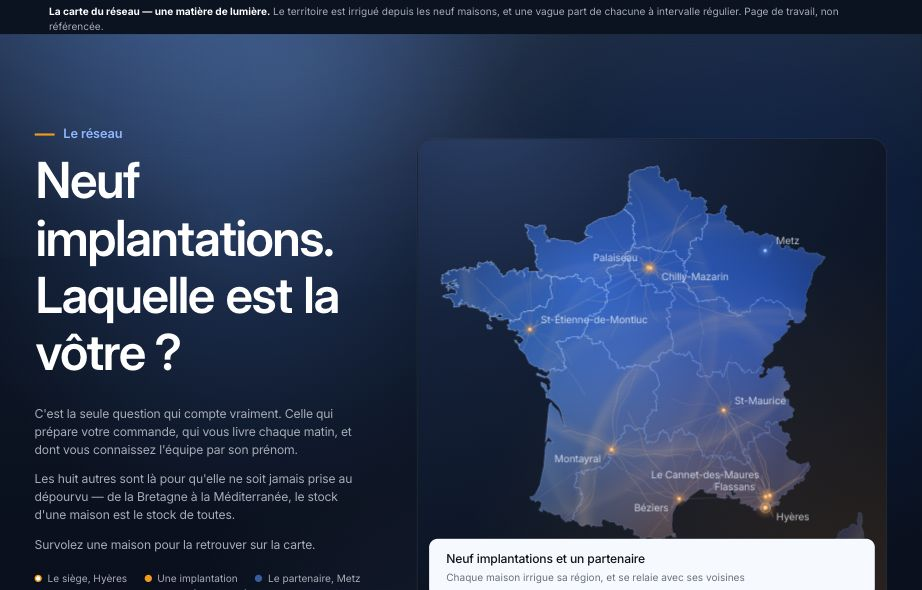
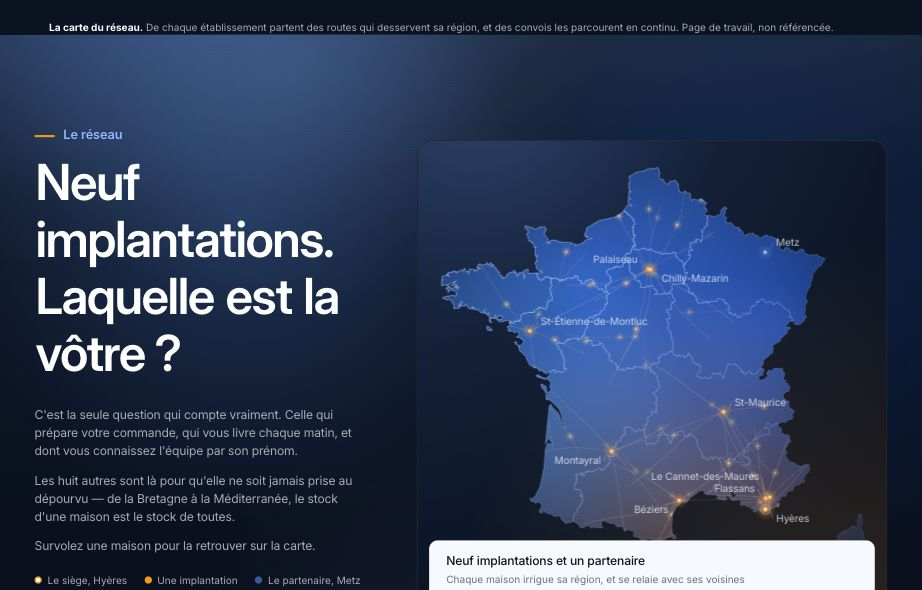
design(site-integral): des convois partent de chaque etablissement par les routes

diff --git a/site-integral/site-2026/cartes/carte-11.html b/site-integral/site-2026/cartes/carte-11.html
@@ -41,7 +41,7 @@ body{background:var(--nuit)}
 </style>
 </head>
 <body>
-<div class="reperage"><p class="petit"><b>La carte du réseau — une matière de lumière.</b> Le territoire est irrigué depuis les neuf maisons, et une vague part de chacune à intervalle régulier. Page de travail, non référencée.</p></div>
+<div class="reperage"><p class="petit"><b>La carte du réseau.</b> De chaque établissement partent des routes qui desservent sa région, et des convois les parcourent en continu. Page de travail, non référencée.</p></div>
 <section class="tuile nuit" id="reseau">
   <div class="dedans duo duo--centre">
     <div>
@@ -194,46 +194,91 @@ var LIEUX = [
     ctx.restore();
   }
 
-  /* ── la couverture : de chaque maison, le territoire est irrigué ───────── */
+  /* ── les routes : de chaque maison partent des routes qui desservent sa région ──
+     Une route n'est pas une veine : elle est lisse, elle se divise à des carrefours,
+     et elle porte quelque chose. Ici, un convoi la parcourt vers l'extérieur, en boucle. */
   function graine(a){ return function(){ a|=0; a=a+0x6D2B79F5|0; var t=Math.imul(a^a>>>15,1|a);
     t=t+Math.imul(t^t>>>7,61|t)^t; return ((t^t>>>14)>>>0)/4294967296; }; }
-  var CAPS = null;
-  function capillaires(){
-    if (CAPS) return CAPS;
-    CAPS = [];
+  var ROUTES = null;
+  function lisser(pts){                       /* une route ne fait pas d'angle : on arrondit */
+    var out=[pts[0]];
+    for (var i=1;i<pts.length-1;i++){
+      var a=pts[i-1], b=pts[i], c=pts[i+1];
+      out.push({x:(a.x+2*b.x+c.x)/4, y:(a.y+2*b.y+c.y)/4});
+    }
+    out.push(pts[pts.length-1]);
+    return out;
+  }
+  function routes(){
+    if (ROUTES) return ROUTES;
+    ROUTES = [];
     for (var i=0;i<LIEUX.length;i++){
-      if (LIEUX[i].part) continue;                 /* le partenaire n'irrigue pas : ce n'est pas une maison */
-      var al = graine(i*911+7), p = PTS[i], n = 9;
+      if (LIEUX[i].part) continue;            /* le partenaire n'est pas une maison du groupe */
+      var al = graine(i*977+13), p = PTS[i], n = 5;
       for (var b2=0;b2<n;b2++){
-        var ang = (b2/n)*6.2832 + al()*0.7, lg = S*(0.10 + al()*0.16);
-        var pts = [{x:p.x, y:p.y}], x=p.x, y=p.y, a2=ang;
-        var pas = 5 + Math.floor(al()*4);
-        for (var k2=0;k2<pas;k2++){
-          a2 += (al()-0.5)*0.85; var d2 = lg/pas;
+        var ang = (b2/n)*6.2832 + al()*0.9;
+        var lg = S*(0.13 + al()*0.17), pas = 7;
+        var pts=[{x:p.x,y:p.y}], x=p.x, y=p.y, a2=ang;
+        for (var k=0;k<pas;k++){
+          a2 += (al()-0.5)*0.42;              /* une route tourne doucement, jamais en zigzag */
+          var d2 = lg/pas;
           x += Math.cos(a2)*d2; y += Math.sin(a2)*d2;
           pts.push({x:x,y:y});
         }
-        CAPS.push({pts:pts, w:0.75+al()*0.5, ph:al()});
+        pts = lisser(lisser(pts));
+        ROUTES.push({pts:pts, w:0.8+al()*0.5, ph:al(), vit:0.055+al()*0.035, i:i});
+        if (al() > 0.45){                      /* un carrefour : la route se divise */
+          var o = pts[Math.floor(pts.length*0.55)], a3 = a2 + (al()<0.5?-1:1)*(0.5+al()*0.5);
+          var q=[{x:o.x,y:o.y}], xx=o.x, yy=o.y, l2=lg*0.55;
+          for (var k2=0;k2<5;k2++){
+            a3 += (al()-0.5)*0.4; var d3=l2/5;
+            xx += Math.cos(a3)*d3; yy += Math.sin(a3)*d3; q.push({x:xx,y:yy});
+          }
+          ROUTES.push({pts:lisser(lisser(q)), w:0.6+al()*0.35, ph:al(), vit:0.05+al()*0.03, i:i});
+        }
       }
     }
-    return CAPS;
+    return ROUTES;
   }
-  function irrigation(tps){
+  function surRoute(r, t){
+    var n=r.pts.length-1, u=Math.min(0.9999,Math.max(0,t))*n, k=Math.floor(u), f=u-k;
+    var a=r.pts[k], b=r.pts[k+1] || r.pts[k];
+    return {x:a.x+(b.x-a.x)*f, y:a.y+(b.y-a.y)*f};
+  }
+  function reseauRoutier(tps){
     if (!CHEMINS) return;
     ctx.save();
     ctx.translate(OX,OY); ctx.scale(S/100,S/100);
     var p = new Path2D(); CHEMINS.forEach(function(c){ p.addPath(c); });
     ctx.clip(p);
     ctx.setTransform(dpr,0,0,dpr,0,0);
-    var caps = capillaires(), k = tps/1000;
-    for (var i=0;i<caps.length;i++){
-      var c = caps[i];
-      var vie = DOUX ? 1 : (0.55 + 0.45*Math.sin(k*0.5 + c.ph*6.2832));
-      ctx.beginPath(); ctx.moveTo(c.pts[0].x, c.pts[0].y);
-      for (var j=1;j<c.pts.length;j++) ctx.lineTo(c.pts[j].x, c.pts[j].y);
-      ctx.strokeStyle = 'rgba(255,196,130,' + (0.10 + 0.13*vie) + ')';
-      ctx.lineWidth = c.w * (petit?0.7:1); ctx.lineCap='round';
+    var R = routes(), k = tps/1000;
+    /* le tracé des routes */
+    for (var i=0;i<R.length;i++){
+      var r=R[i];
+      ctx.beginPath(); ctx.moveTo(r.pts[0].x, r.pts[0].y);
+      for (var j=1;j<r.pts.length;j++) ctx.lineTo(r.pts[j].x, r.pts[j].y);
+      ctx.strokeStyle='rgba(255,206,150,.18)';
+      ctx.lineWidth=r.w*(petit?0.7:1); ctx.lineCap='round'; ctx.lineJoin='round';
       ctx.stroke();
+    }
+    /* les convois : ce qui part de chaque maison et s'éloigne */
+    if (!DOUX){
+      for (var i2=0;i2<R.length;i2++){
+        var r2=R[i2], t=((k*r2.vit)+r2.ph)%1;
+        var fade=Math.sin(Math.PI*Math.min(1,t*1.06));      /* apparaît, s'éloigne, s'efface */
+        if (fade<=0.02) continue;
+        var q2=surRoute(r2,t), rr=(petit?1.5:2.1);
+        var g=ctx.createRadialGradient(q2.x,q2.y,0,q2.x,q2.y,rr*3.4);
+        g.addColorStop(0,'rgba(255,232,196,'+(fade*0.95)+')');
+        g.addColorStop(.35,'rgba(255,192,120,'+(fade*0.34)+')');
+        g.addColorStop(1,'rgba(255,192,120,0)');
+        ctx.fillStyle=g; ctx.beginPath(); ctx.arc(q2.x,q2.y,rr*3.4,0,6.2832); ctx.fill();
+        var tr=surRoute(r2, Math.max(0,t-0.05));            /* la trace derrière lui */
+        ctx.beginPath(); ctx.moveTo(tr.x,tr.y); ctx.lineTo(q2.x,q2.y);
+        ctx.strokeStyle='rgba(255,214,160,'+(fade*0.30)+')';
+        ctx.lineWidth=(petit?0.9:1.2); ctx.stroke();
+      }
     }
     ctx.restore();
   }
@@ -336,7 +381,7 @@ var LIEUX = [
     }
     ctx.restore();
   }
-  function dessiner(tps){ sol(); pays(tps); irrigation(tps); onde(tps); liens(); points(tps); }
+  function dessiner(tps){ sol(); pays(tps); reseauRoutier(tps); liens(); points(tps); }
   function image(){ dessiner(performance.now()-t0); if (vivant && !DOUX) boucle=requestAnimationFrame(image); }
   function partir(){ if (vivant||DOUX) { if(DOUX) dessiner(0); return; } vivant=true; boucle=requestAnimationFrame(image); }
   function stopper(){ vivant=false; if(boucle) cancelAnimationFrame(boucle); boucle=null; }
